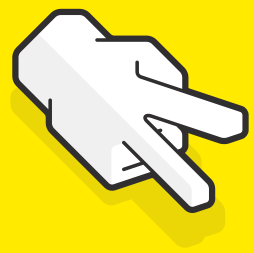
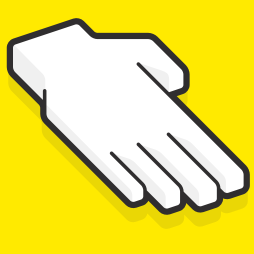
logic complete

Changed region(s): [[0.0, 0.0277, 0.996, 0.8577]]

diff --git a/script/main.js b/script/main.js
@@ -9,7 +9,19 @@ let game = {
         current: null,
         score: 0
     },
-    play:["Rock","Paper","Scissors"]
+    currentResult:null,
+    play:["Rock","Paper","Scissors"],
+    gamePlay:[{
+        set: "Rock",
+        kill: "Scissors"
+    },{
+        set: "Paper",
+        kill: "Rock"
+    },{
+        set: "Scissors",
+        kill: "Paper"
+    }],
+    log:["Click Ready to start"]
 }
 
 //functions
@@ -19,9 +31,11 @@ function resetTurn(){
     game.playerB.ready=false;
     game.playerA.current=null;
     game.playerB.current=null;
+    game.playerB.currentResult=null;
     $(".ready").show();
 }
 function playerReady(){
+    $(".gameLog").html(game.log[game.log.length-1]);
     $(".playerAready").click(function (e) { 
         e.preventDefault();
         $(this).addClass("playerReady");
@@ -54,7 +68,7 @@ function getHandImg(hand,player){
     else if(hand == "Paper"){
         url= `paper_${side}.png`;
     }
-    else{
+    else if(hand == "Scissors"){
         url= `scissors_${side}.png`;
     }
     return url;
@@ -62,13 +76,62 @@ function getHandImg(hand,player){
 function startGame(){
     game.playerA.current = rockPaperScissors();
     game.playerB.current = rockPaperScissors();
+
     let handA = game.playerA.current;
     let handB = game.playerB.current;
 
+    console.log(handA);
+    console.log(handB);
+
     $(".handA").attr("src",`img/${getHandImg(handA,"A")}`);
-    resetTurn();
     $(".handB").attr("src",`img/${getHandImg(handB,"B")}`);
 
+    if(handA == handB){
+        game.currentResult= "Draw";
+        game.log.push("Draw");
+    }
+    else if(handA == "Rock"){
+        if(handB == "Scissors"){
+            game.currentResult= "A";
+            game.playerA.score++;
+            game.log.push("Rock hits Scissors");
+        }
+        else{
+            game.currentResult= "B";
+            game.playerB.score++;
+            game.log.push("Paper wraps Rock");
+        }
+    }
+    else if(handA == "Paper"){
+        if(handB == "Rock"){
+            game.currentResult= "A";
+            game.playerA.score++;
+            game.log.push("Paper wraps Rock");
+        }
+        else{
+            game.currentResult= "B";
+            game.playerB.score++;
+            game.log.push("Scissors cuts Paper");
+        }
+    }
+    else if(handA == "Scissors"){
+        if(handB == "Paper"){
+            game.currentResult= "A",
+            game.playerA.score++;
+            game.log.push("Scissors cuts Paper");
+        }
+        else{
+            game.currentResult= "B";
+            game.playerB.score++;
+            game.log.push("Rock hits Scissors");
+        }
+    }
+    console.log("Result : "+game.currentResult);
+    console.log(game.playerA.current+" A : "+game.playerA.score);
+    console.log(game.playerB.current+" B : "+game.playerB.score);
+    $(".scoreA").html(game.playerA.score);
+    $(".scoreB").html(game.playerB.score);
+    $(".ready").show();
 }
 function checkReady(){
     $(".ready").click(function (e) { 
@@ -76,7 +139,11 @@ function checkReady(){
         if(game.playerA.ready == true && game.playerB.ready == true )
         {
             startGame();
-            $(".ready").hide();
+            $(".ready").removeClass("playerReady");
+            game.playerA.ready=false;
+            game.playerB.ready=false;
+            $(".gameLog").html(game.log[game.log.length-1]);
+            console.log(game.log[game.log.length-1]);
         }
     });
 }

diff --git a/style/main.scss b/style/main.scss
@@ -27,6 +27,15 @@ body{
         }
         &.game{
             display: flex;
+            .gameLog{
+                position: fixed;
+                top: 10px;
+                left: 50vw;
+                padding: 20px;
+                color:#ffea00;
+                background-color: #234099;
+                transform: translateX(-50%);
+            }
             .player{
                 display: inline-block;
                 width: 50vw;
@@ -41,11 +50,16 @@ body{
                 .panel{
                     width: 100%;
                     height: 50vh;
-                    background-color: rgba(0, 0, 0, 0.1);
+                    .score{
+                        text-align: center;
+                        font-size: 50px;
+                        margin: 10px;
+                    }
                     .ready{
                         position: relative;
                         top: 50%;
                         left: 50%;
+                        transform: translateX(-50%);
                         display: inline-block;
                         padding: 10px 20px;
                         background-color: #234099;

diff --git a/style/main.css b/style/main.css
@@ -36,6 +36,17 @@ body section.game {
   display: flex;
 }
 
+body section.game .gameLog {
+  position: fixed;
+  top: 10px;
+  left: 50vw;
+  padding: 20px;
+  color: #ffea00;
+  background-color: #234099;
+  -webkit-transform: translateX(-50%);
+          transform: translateX(-50%);
+}
+
 body section.game .player {
   display: inline-block;
   width: 50vw;
@@ -54,13 +65,20 @@ body section.game .player .canvas .hand {
 body section.game .player .panel {
   width: 100%;
   height: 50vh;
-  background-color: rgba(0, 0, 0, 0.1);
+}
+
+body section.game .player .panel .score {
+  text-align: center;
+  font-size: 50px;
+  margin: 10px;
 }
 
 body section.game .player .panel .ready {
   position: relative;
   top: 50%;
   left: 50%;
+  -webkit-transform: translateX(-50%);
+          transform: translateX(-50%);
   display: inline-block;
   padding: 10px 20px;
   background-color: #234099;

diff --git a/index.html b/index.html
@@ -10,11 +10,13 @@
         <div class="start">Start</div>
     </section>
     <section class="game">
+        <div class="gameLog"></div>
         <main class="player">
             <div class="canvas">
                 <img class="hand handA"></img>
             </div>
             <div class="panel">
+                <h1 class="score scoreA"></h1>
                 <div class="ready playerAready">Ready</div>
             </div>
         </main>
@@ -23,6 +25,7 @@
                 <img class="hand handB"></img>
             </div>
             <div class="panel">
+                <h1 class="score scoreB"></h1>
                 <div class="ready playerBready">Ready</div>
             </div>
         </main>
